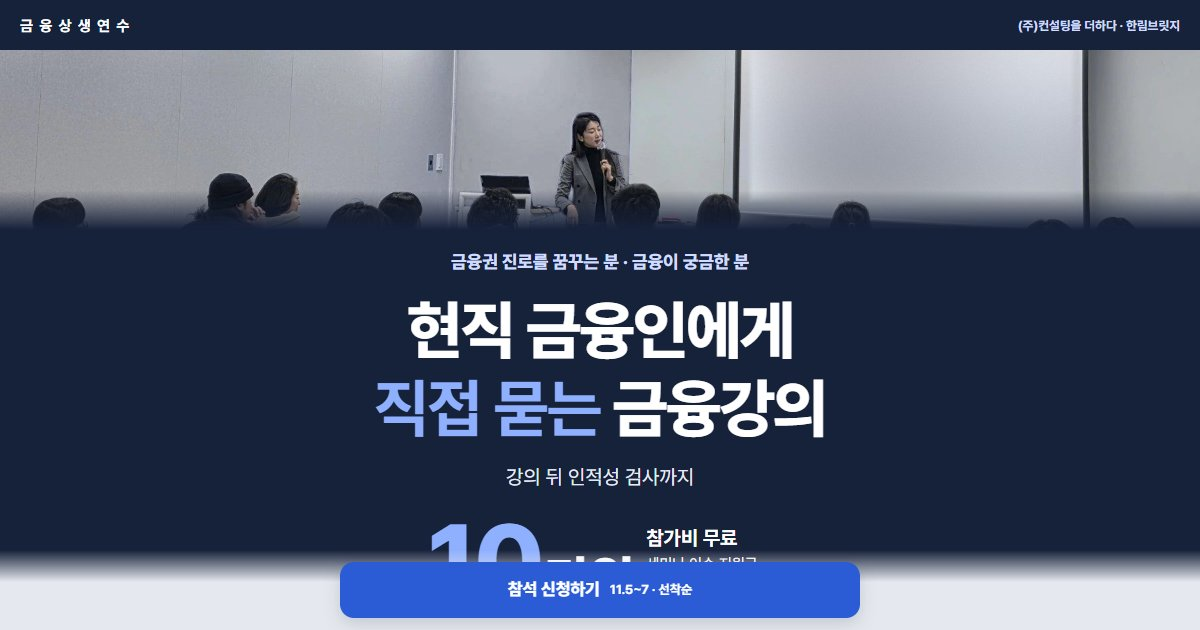
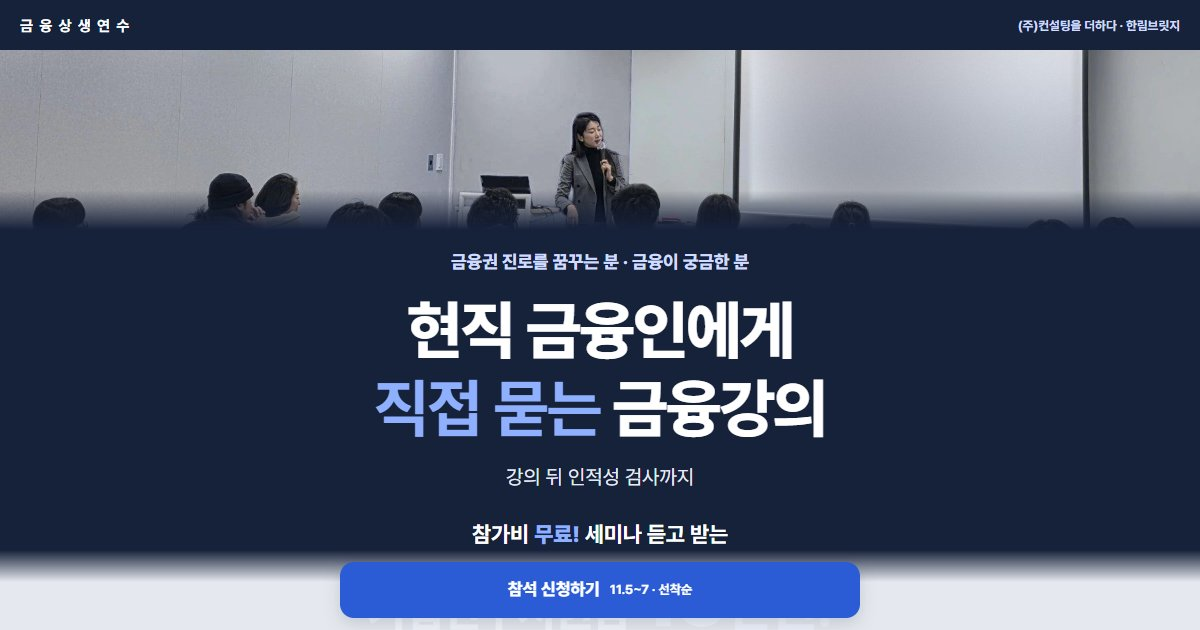
기업연수지원금 크게 — 세미나 듣고 받는 10만원, 토요일 5만원

Changed region(s): [[0.3392, 0.8143, 0.6167, 0.9048]]

diff --git a/index.html b/index.html
@@ -4,11 +4,11 @@
 <meta charset="utf-8">
 <meta name="viewport" content="width=device-width,initial-scale=1,viewport-fit=cover"><meta name="color-scheme" content="only light">
 <title>금융상생연수 — 현직 금융인에게 직접 묻는 금융강의</title>
-<meta name="description" content="참가비 무료, 이수 지원금 최대 10만원. 11월 5~6일(목·금) · 11월 7일(토) 선릉역. 강의 뒤 인적성 검사까지. 선착순 마감.">
+<meta name="description" content="참가비 무료, 기업연수지원금 최대 10만원. 11월 5~6일(목·금) · 11월 7일(토) 선릉역. 강의 뒤 인적성 검사까지. 선착순 마감.">
 <!-- 2026-10-26 PC 초안(공개 전). 원본 구조 = 10/15 잡세미나 랜딩(seminar/). 게시 예정 주소 /sangsaeng/ -->
 <meta property="og:type" content="website">
 <meta property="og:title" content="금융상생연수 — 현직 금융인에게 직접 묻는 금융강의">
-<meta property="og:description" content="참가비 무료 · 이수 지원금 최대 10만원 | 11월 5~6일(목·금) · 7일(토) 선릉역 | 선착순 마감">
+<meta property="og:description" content="참가비 무료 · 기업연수지원금 최대 10만원 | 11월 5~6일(목·금) · 7일(토) 선릉역 | 선착순 마감">
 <meta property="og:image" content="https://sangsaeng-finance.github.io/og.jpg">
 <meta property="og:image:width" content="1200"><meta property="og:image:height" content="630">
 <meta property="og:url" content="https://sangsaeng-finance.github.io/">
@@ -263,6 +263,12 @@ footer{color:var(--mute)}
 .checks label:has(input:checked){border-color:var(--gold);background:#eaf0fd}
 .prv{background:#eef2f9}
 #done button{color:var(--ink)} #done #doneShare{color:var(--gold)}
+.fund{margin-top:24px}
+.fund .f1{font-size:clamp(17px,4.8vw,22px);font-weight:700;color:#fff}.fund .f1 b{color:#8fb0ff}
+.fund .f2{display:flex;flex-wrap:wrap;align-items:baseline;column-gap:10px;margin-top:4px;font-weight:800;letter-spacing:-.03em;line-height:1.1}
+.fund .f2 .k{font-size:clamp(26px,7.2vw,44px);color:#fff}
+.fund .f2 .v{font-size:clamp(30px,8.4vw,52px);color:#8fb0ff;white-space:nowrap}.fund .f2 .v b{font-size:1.5em;letter-spacing:-.05em;margin-right:2px}
+.fund .f3{margin-top:8px;font-size:clamp(17px,4.8vw,22px);font-weight:700;color:#fff}.fund .f3 b{color:#8fb0ff}
 </style>
 </head>
 <body>
@@ -275,9 +281,10 @@ footer{color:var(--mute)}
     <p class="who-for">금융권 진로를 꿈꾸는 분 · 금융이 궁금한 분</p>
     <h1 class="sf">현직 금융인에게<br><b>직접 묻는</b> 금융강의</h1>
     <p class="sub">강의 뒤 인적성 검사까지</p>
-    <div class="free">
-      <div class="amt">10<small>만원</small></div>
-      <div class="lb"><b>참가비 무료</b>세미나 이수 지원금<br><span>최대 금액 · 선착순 마감</span></div>
+    <div class="fund">
+      <p class="f1">참가비 <b>무료!</b> 세미나 듣고 받는</p>
+      <p class="f2"><span class="k">기업연수지원금</span><span class="v"><b>10</b>만원!</span></p>
+      <p class="f3">※ 토요일은 <b>5만원</b></p>
     </div>
   </div>
 </section>
@@ -306,7 +313,7 @@ footer{color:var(--mute)}
 <!-- ④ 지원금 -->
 <section id="money"><div class="wrap">
   <p class="eyebrow">SUPPORT</p>
-  <h2 class="h2 sf">이수 지원금 <b>최대 10만원</b></h2>
+  <h2 class="h2 sf">세미나 듣고 받는<br>기업연수지원금 <b>10만원</b></h2>
   <div class="pay">
     <div class="pcard rv">
       <p class="when">목·금 연속 참석 · 11월 5~6일</p>
@@ -322,7 +329,7 @@ footer{color:var(--mute)}
   <ul class="warn">
     <li class="key">목·금은 <b>이틀 모두</b> 참석하셔야 지급됩니다<br><span>하루만 오시면 지급되지 않습니다</span></li>
     <li>참석은 <b>목·금 이틀</b> 또는 <b>토요일 하루</b> 중 하나를 고릅니다.</li>
-    <li>이수 지원금은 서명부 작성과 만족도 조사를 마친 분께 드립니다.</li>
+    <li>기업연수지원금은 서명부 작성과 만족도 조사를 마친 분께 드립니다.</li>
   </ul>
 </div></section>
 
@@ -366,7 +373,7 @@ footer{color:var(--mute)}
   <h2 class="h2 sf">꼭 읽어 주세요</h2>
   <ul class="warn notice">
     <li>참가비 없이 무료로 진행하는 "활동지원사업"입니다.</li>
-    <li>이수 지원금은 서명부 작성과 만족도 조사를 마친 분께 드립니다.</li>
+    <li>기업연수지원금은 서명부 작성과 만족도 조사를 마친 분께 드립니다.</li>
     <li>현장 사진·영상은 홍보에 쓰일 수 있습니다.</li>
     <li>장소는 WM세미나실이며, 사정에 따라 인원이 바뀌거나 취소될 수 있습니다.</li>
     <li>강의 중 자리 이동이나 진행을 방해하는 행동은 퇴장 사유가 될 수 있습니다.</li>
@@ -436,7 +443,7 @@ footer{color:var(--mute)}
   <p>이제 이렇게 진행됩니다</p>
   <ol class="next">
     <li><b>담당자 문자</b>담당자가 먼저 문자로 이름과 전화드릴 시간을 남깁니다</li>
-    <li><b>안내 전화</b>그 시간에 전화로 일정과 <span class="nw">이수 지원금</span> 조건을 안내드립니다</li>
+    <li><b>안내 전화</b>그 시간에 전화로 일정과 <span class="nw">기업연수지원금</span> 조건을 안내드립니다</li>
     <li><b>참석 확정 문자</b>통화가 끝나면 일정·장소가 담긴 확정 문자를 보내드립니다</li>
   </ol>
   <button type="button" id="doneShare">함께 갈 분께 링크 보내기</button>
